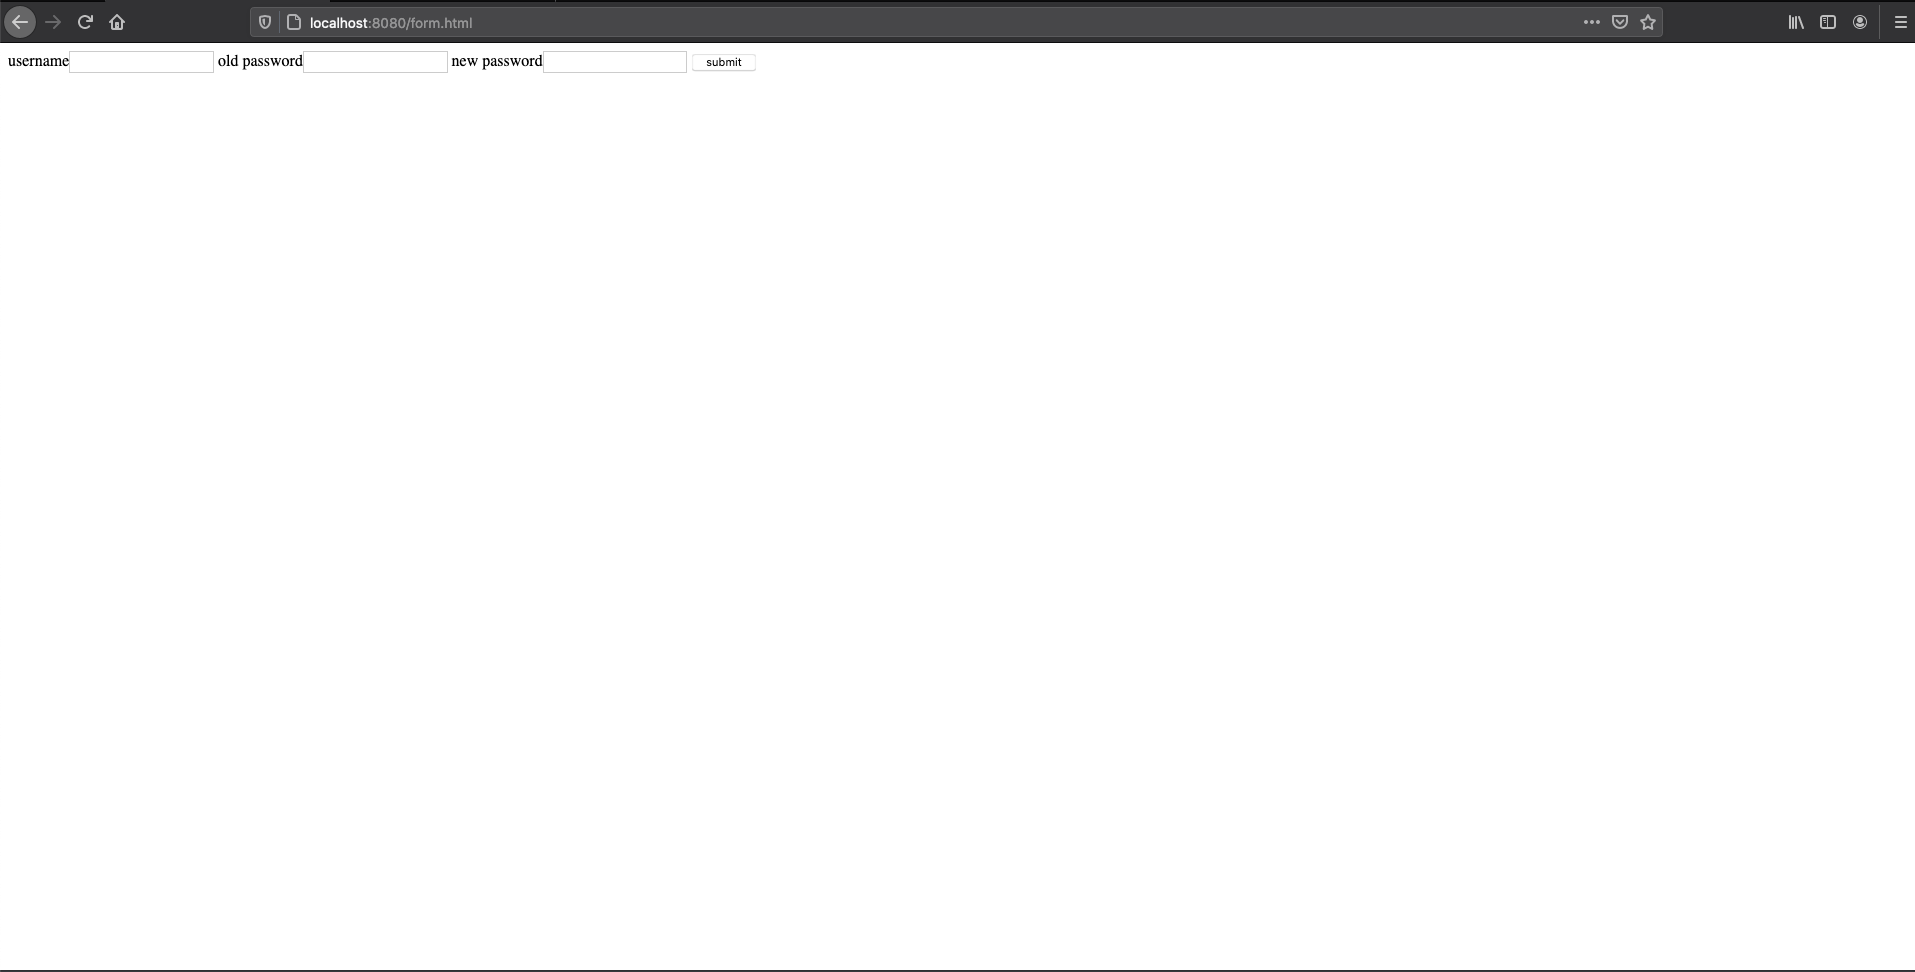
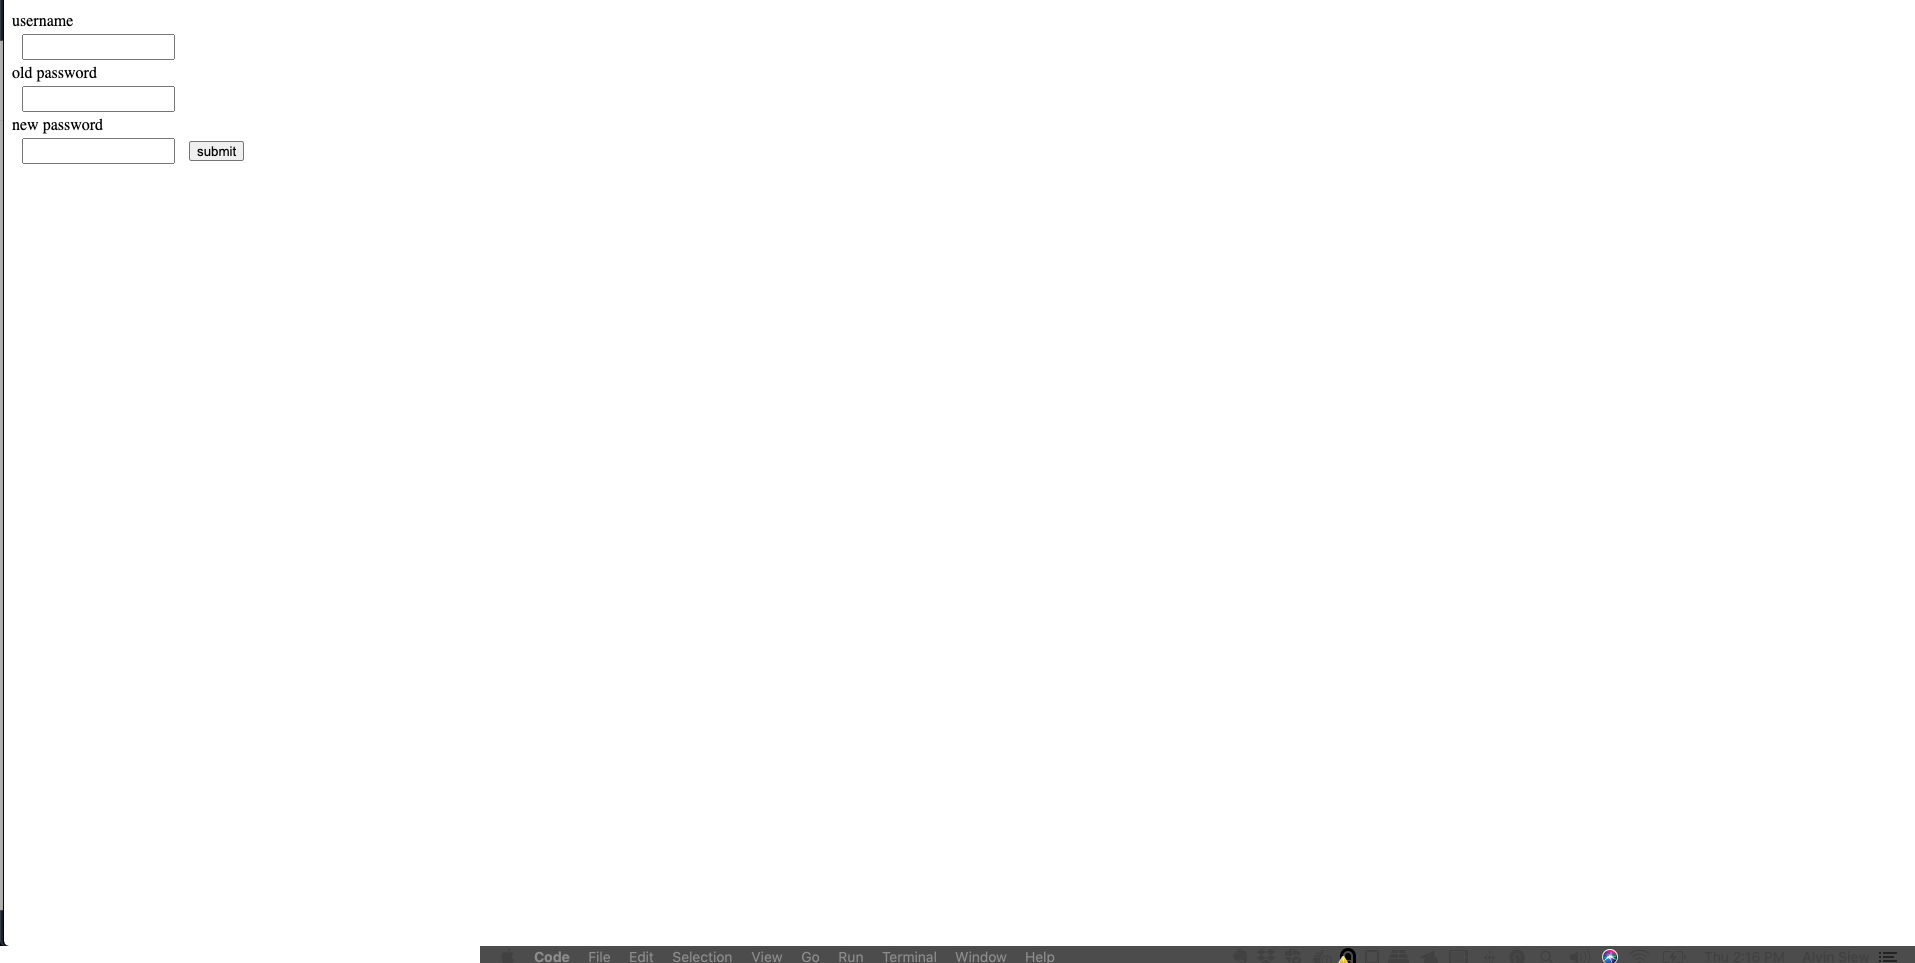
Update README Screenshot

diff --git a/README.md b/README.md
@@ -69,6 +69,12 @@ Accessing LDAP Self Service Portal
 http://localhost:8080
 ```
 
+![Optional Text](../main/screenshots/main.png)
+
+```bash
+http://localhost:8080/form.html
+```
+
 ![Optional Text](../main/screenshots/form.png)
 
 ## Self-compile
